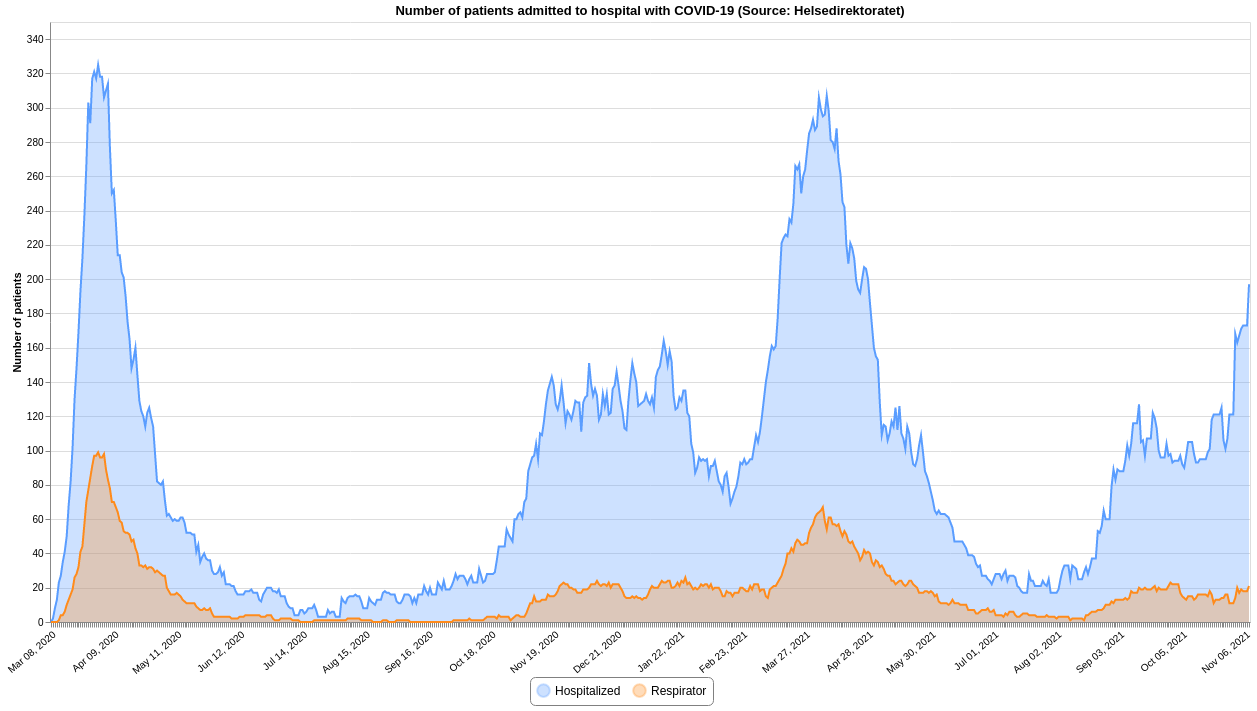
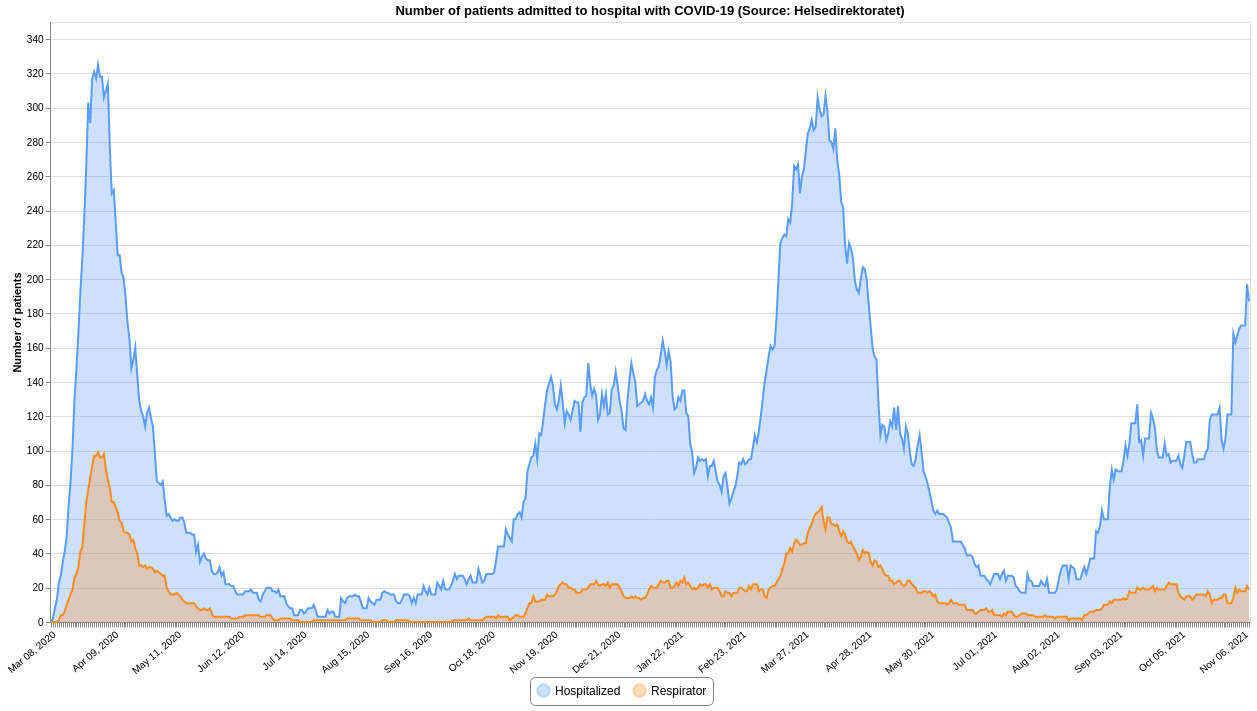
Updated 2021-11-09 12:51

diff --git a/README.md b/README.md
@@ -12,7 +12,7 @@ This repository contains datasets of daily time-series data related to COVID-19 
 | :--- | :--- | :--- | :--- | :--- |
 |[Confirmed](#confirmedcsv)|FHI / MSIS|2021-11-09 00:10:48+01:00|[<center>csv</center>](https://raw.githubusercontent.com/frefrik/covid19norge-data/main/data/confirmed.csv)|[<center>preview</center>](data/confirmed.csv)|
 |[Dead](#deadcsv)|FHI|2021-11-08 13:20:59+01:00|[<center>csv</center>](https://raw.githubusercontent.com/frefrik/covid19norge-data/main/data/dead.csv)|[<center>preview</center>](data/dead.csv)|
-|[Hospitalized](#hospitalizedcsv)|Helsedirektoratet|2021-11-08 23:00:51+01:00|[<center>csv</center>](https://raw.githubusercontent.com/frefrik/covid19norge-data/main/data/hospitalized.csv)|[<center>preview</center>](data/hospitalized.csv)|
+|[Hospitalized](#hospitalizedcsv)|Helsedirektoratet|2021-11-09 12:50:49+01:00|[<center>csv</center>](https://raw.githubusercontent.com/frefrik/covid19norge-data/main/data/hospitalized.csv)|[<center>preview</center>](data/hospitalized.csv)|
 |[Tested](#testedcsv)|FHI|2021-11-08 13:10:50+01:00|[<center>csv</center>](https://raw.githubusercontent.com/frefrik/covid19norge-data/main/data/tested.csv)|[<center>preview</center>](data/tested.csv)|
 |[Tested Lab](#tested_labcsv)|FHI|2021-11-08 13:20:53+01:00|[<center>csv</center>](https://raw.githubusercontent.com/frefrik/covid19norge-data/main/data/tested_lab.csv)|[<center>preview</center>](data/tested_lab.csv)|
 |[Transport](#transportcsv)|FHI|2021-09-24 23:10:46+02:00|[<center>csv</center>](https://raw.githubusercontent.com/frefrik/covid19norge-data/main/data/transport.csv)|[<center>preview</center>](data/transport.csv)|
